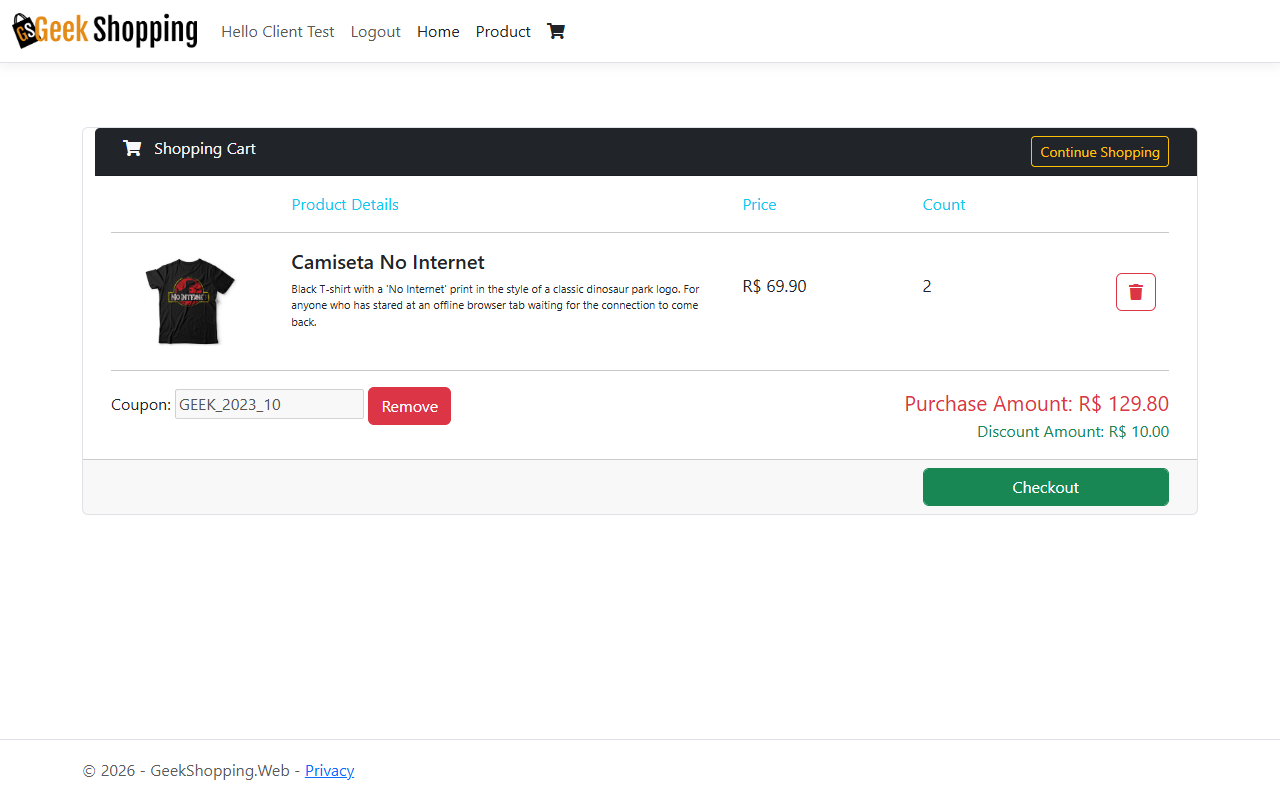
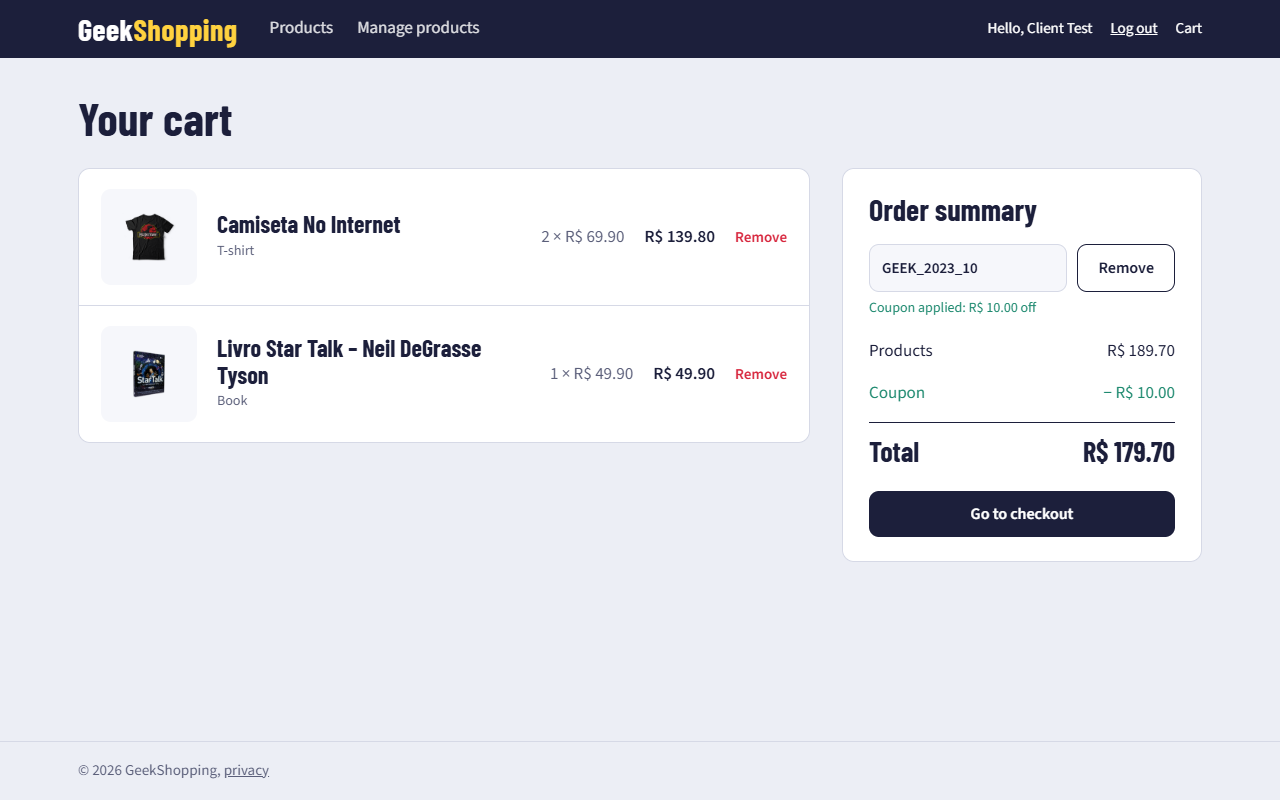
Retake the README screenshots with the new design
The GIF and the three screenshots show the redesigned storefront and
sign-in page, and the README describes the new front end instead of
Bootstrap.

diff --git a/README.md b/README.md
@@ -12,7 +12,7 @@ An e-commerce platform built as .NET microservices. Each service owns its own da
 | --- | --- | --- |
 | ![Storefront with the product catalogue](docs/images/storefront.png) | ![IdentityServer login page](docs/images/login.png) | ![Cart with the GEEK_2023_10 coupon applied](docs/images/cart.png) |
 
-The storefront and the IdentityServer pages are ASP.NET Core MVC with Razor views, Bootstrap 5.3 and jQuery 3.7. Product photos are loaded from the original course repository on GitHub.
+The storefront is ASP.NET Core MVC with Razor views and its own stylesheet: products are shown as blister cards, like action figure packaging, with Barlow Condensed and Source Sans 3 served from `wwwroot/fonts`; jQuery is only used for form validation. The sign-in and create account pages share that look, and the other IdentityServer pages keep Bootstrap 5.3 themed through its CSS variables. Product photos are loaded from the original course repository on GitHub.
 
 ## Architecture
 
@@ -121,7 +121,7 @@ sequenceDiagram
 
 ## Tech stack
 
-C# · .NET 8 · ASP.NET Core Web API and MVC · Razor · Bootstrap 5.3 · jQuery 3.7 · Ocelot · Duende IdentityServer · ASP.NET Identity · Entity Framework Core · SQL Server · RabbitMQ · AutoMapper · Swagger · Docker Compose
+C# · .NET 8 · ASP.NET Core Web API and MVC · Razor · Ocelot · Duende IdentityServer · ASP.NET Identity · Entity Framework Core · SQL Server · RabbitMQ · AutoMapper · Swagger · Docker Compose
 
 ## Running locally
 
